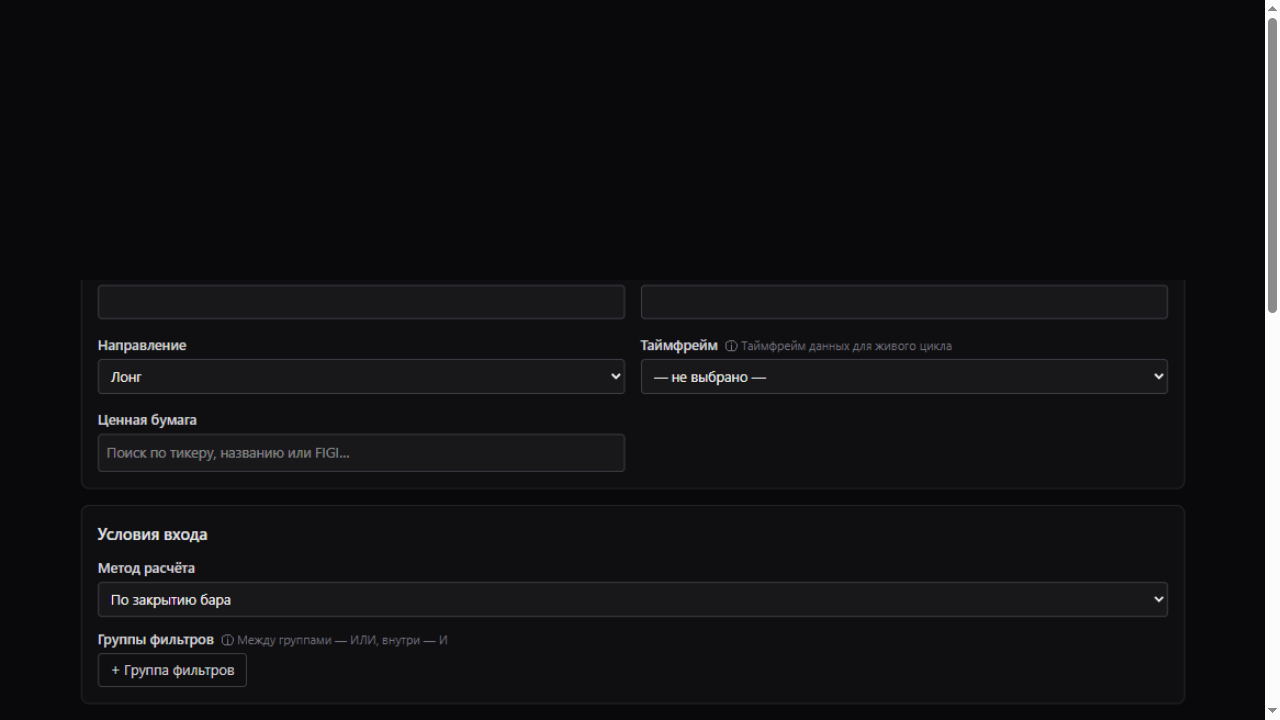
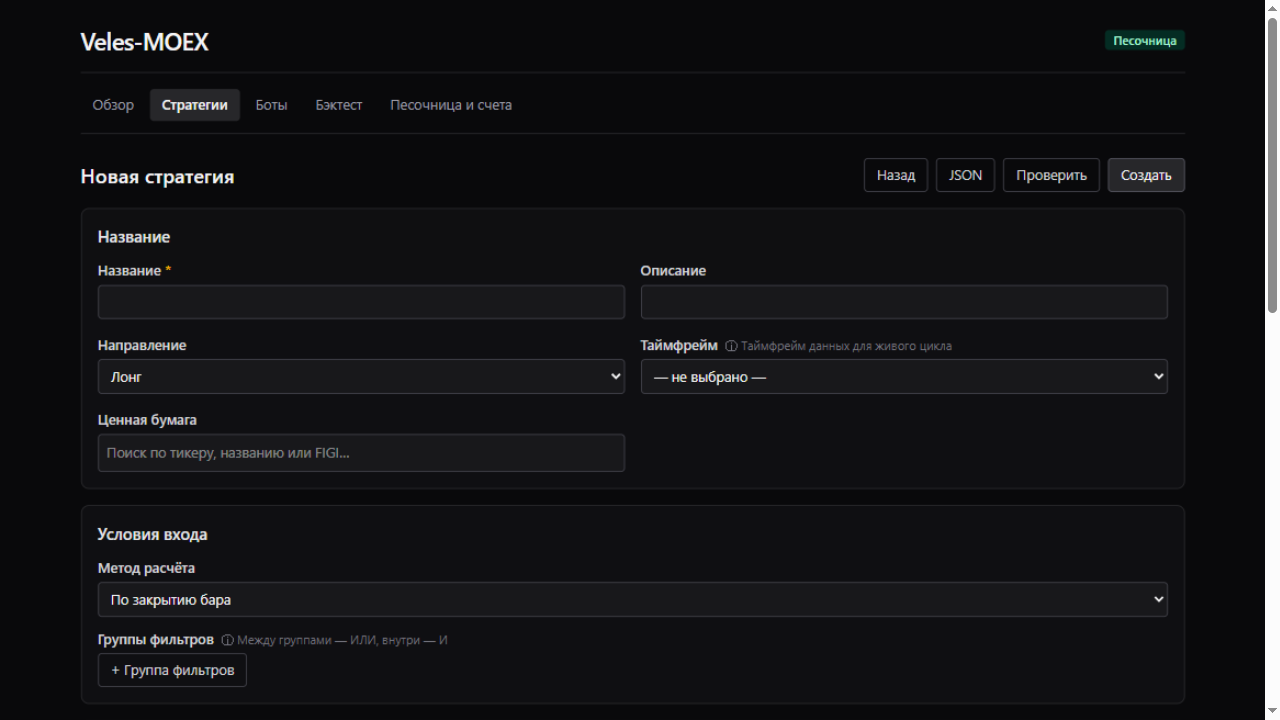
REPORT-MVP-8.2-REV1: раунд 2 (B1–B3, U13) — отчёт, скриншоты U13 и пересъёмка T3

diff --git a/.agent/REPORT-MVP-8.2-REV1.md b/.agent/REPORT-MVP-8.2-REV1.md
@@ -1,0 +1,119 @@
+# Veles-MOEX — Отчёт Кодера: MVP-8.2, Раунд 2 (REV1)
+
+## Резюме
+
+Задача: `.agent/TASK-MVP-8.2-TAILWIND4-A11Y.md`, раздел «Раунд 2» — контракт владельца **U13** («Период»: календарь по датам, пресеты по значку, без надписи «Быстрый выбор») плюс блокеры B1–B3 из `.agent/REVIEW-MVP-8.2.md` и обязательные правки отчёта.
+
+- Ветка реализации: `agent/review/mvp-8.2` (база раунда 1: `196a76c`; общая база — `master @ c87435a`)
+- HEAD: `f0f057b27b479d9e8bf0a2a297a1a207431f23de` (**запушена, в синхроне с origin** — проверено `git ls-remote origin agent/review/mvp-8.2`)
+- Коммиты раунда 2 (каждое изменение — отдельный коммит):
+  - `b55fa00` — **B1**: кликабельная область чекбокса ≥ 32 px (A4);
+  - `e9f5510` — **B2 + U13**: «Период» — календарь по полю, пресеты по значку, Esc/клавиатура;
+  - `f0f057b` — **B3**: цвет `::placeholder` и покрытие в `check:contrast`.
+
+## B1. Чекбокс — область ≥ 32 px (A4)
+
+**Было (по ревью B1):** `CheckboxInput` — `input` 16×16 без обёртки `label` (Chrome не применяет padding к нативному чекбоксу, computed `padding: 0`); два чекбокса `StrategyFormPage` — внутри `label` 1044×20, то есть 20 px по высоте.
+
+**Стало:**
+
+- `FormControls.tsx` — `CheckboxInput` обёрнут в `<label className="flex min-h-8 min-w-8 cursor-pointer items-center justify-center">`; сам чекбокс — `h-4 w-4 accent-zinc-400` (визуальный размер 16 px не менялся), программная подпись (`aria-label` из `Field`) и видимые тексты без изменений.
+- `StrategyFormPage.tsx` — `label` строки чекбокса сигнала: `flex cursor-pointer items-center gap-2 text-sm font-medium text-zinc-200` → `flex min-h-8 cursor-pointer items-center gap-2 text-sm font-medium text-zinc-200`.
+- Тест: `FormControls.test.tsx`, `«A4 (раунд 2 B1): чекбокс обёрнут в label — кликабельная область 32×32»` — проверяет наличие `label` с `min-h-8`/`min-w-8` вокруг чекбокса.
+
+**Живой замер (финальный бандл, `/strategies/new`, `getBoundingClientRect`):**
+
+| Чекбокс | Видимый input | Кликабельная область (label) |
+|---|---|---|
+| режим стратегии (2 шт.) | 16×16 px | 1044×**32** px |
+| «Экстренная остановка» | 16×16 px | 527×**32** px |
+
+Область нажатия — ≥ 32 px по высоте; визуальный размер самого чекбокса не менялся.
+
+## B2 + U13. «Период»: календарь по датам, пресеты по значку
+
+Ревью B2: Esc не закрывал календарь, открытый с клавиатуры (обработчик был только на текстовом поле и диалоге; кнопка «Открыть календарь» держала фокус). Замечание M1 — улучшение клавиатуры на самом поле.
+
+**Решение — контракт U13 (закрывает и B2, и M1).** `PeriodPicker.tsx` переработан:
+
+- **Поле** («Период», `readOnly`, `aria-label` «Период») — открывает календарь по клику, **Enter, Space и ArrowDown** (M1 закрыт: путь с клавиатуры начинается с самого поля).
+- **Значок** (кнопка, `aria-label="Быстрый выбор периода"`) — открывает только панель пресетов (Месяц / 3 месяца / 6 месяцев / Год / 3 года / Весь период; «Весь период» без данных — disabled, как раньше).
+- **Календарь** — только месяц/даты/время/подсказка; раздела «Быстрый выбор ▾» внутри календаря **больше нет** (надпись «Быстрый выбор» не встречается в DOM вообще).
+- **Один попап за раз**: закрытие по `mousedown`/`focusin` вне области (слушатели на `document` для `[open, presetsOpen]`).
+- **Esc** — на общем корневом элементе (`onRootKeyDown` + `onKeyDown` попапов): закрывает любой из попапов и **возвращает фокус** на элемент-открыватель (поле или значок). B2 закрыт: Esc работает независимо от того, чем открыт попап.
+- Навигация в пресетах: ArrowDown/ArrowUp переводит фокус между кнопками, Enter — выбор (кнопки), Tab — по умолчанию.
+
+**Тесты** (`PeriodPicker.test.tsx`, блок «U13 (раунд 2)», 8 новых сценариев): календарь без пресетов; пресеты без календаря; открыт только один попап; Esc из поля закрывает календарь и возвращает фокус; Esc из значка закрывает пресеты и возвращает фокус; текста «Быстрый выбор ▾» в документе нет; поле открывает календарь по Enter/Space/ArrowDown; ArrowDown/ArrowUp перемещают фокус по опциям пресетов.
+
+**Адаптация существующих тестов — только то, что потребовал U13 (что было → что стало):**
+
+- `BacktestPage.test.tsx`: 4× `getByLabelText("Открыть календарь")` → `getByLabelText("Период")` (календарь теперь открывается полем); 1× `getByText("Быстрый выбор ▾")` → `getByRole("button", { name: "Быстрый выбор периода" })`.
+- `PeriodPicker.test.tsx`: 3× `getByText("Быстрый выбор ▾")` → клик по значку (`aria-label`); тест «Весь период» — календарь переоткрывается кликом по полю перед проверкой подсказки; комментарий disabled-опции обновлён.
+- Проверки U11/U12 (пустой период, ISO-период, портфель данных) не ослаблены — см. `npm test`.
+
+**Живой прогон (финальный бандл, docker, `/backtest`):**
+
+| Действие | Результат |
+|---|---|
+| Enter на поле | календарь открылся (dialog = 1) |
+| Esc на поле | закрыт (0), фокус на поле («Период») |
+| ArrowDown на поле | календарь открылся (1) |
+| Esc на поле | закрыт, фокус на поле |
+| Клик по значку | панель пресетов (6 опций), календаря нет (dialog = 0), текста «Быстрый выбор ▾» нет |
+| Esc на значке | пресеты закрыты (0), фокус на значке |
+
+## B3. Placeholder ≥ 4.5:1
+
+Ревью B3: в Tailwind 4 `::placeholder` по умолчанию — `color-mix(in oklab, currentcolor 50%, transparent)` (было gray-400 в v3); поля даты/времени `PeriodPicker` давали **4.42:1 < 4.5**.
+
+**Исправление:** `frontend/src/index.css`, `@layer base`:
+
+```css
+::placeholder {
+  color: var(--color-text-muted); /* #a1a1aa */
+  opacity: 1;
+}
+```
+
+Итог: 6.91:1 на surface (`#18181b`), 7.76:1 на page (`#09090b`) — выше 4.5:1 для всех полей (включая дату/время `PeriodPicker`), вид близок к v3.
+
+**`check:contrast` расширен** (`frontend/scripts/check-contrast.mjs`): пары плейсхолдеров `«placeholder text-muted on bg-surface»` / `«placeholder text-muted on bg-page»` (источник — `index.css ::placeholder`). **25 пар текста/фона, 0 ниже 4.5:1** (было 24 — плейсхолдеры не проверялись).
+
+**Живой замер:** computed `::placeholder` у поля «например, 100000» = `rgb(161, 161, 170)` (`#a1a1aa`), цвет самого текста поля — zinc-100.
+
+## Правки отчёта раунда 1 (обязательные из ревью)
+
+1. **A4** — исправлено: чекбокс визуально 16×16 при кликабельной области **≥ 32 px** (`label`-обёртка; способ проверки — `getBoundingClientRect` + тест, см. B1).
+2. **A6** — «дефектов не найдено» убрано: найденный дефект B2 и его закрытие описаны выше.
+3. **T2** — добавлено изменение v4: `::placeholder` (color-mix 50 % currentcolor вместо gray-400) и его исправление в Части 2 (B3).
+4. **«Часть 1 визуально 1:1»** — уточнено. На «Обзоре» колонки таблицы сместились на 2–9 px. **Причина установлена и воспроизведена при одинаковых данных и прокрутке:** в Tailwind 4 preflight добавлен универсальный сброс `*, :after, :before, ::backdrop { margin: 0; padding: 0 }` (в v3 его не было), что убирает UA-дефолт Chrome `th, td { padding: 1px }`. Подтверждение по вычисленным стилям: ячейки таблицы — v3 `padding: 4px 1px`, v4 `4px 0px`; классы ячеек (`py-1`) и содержимое идентичны; также `border-color` ячеек стал `oklch(...)` вместо `rgb(229,231,235)` (тот же визуальный цвет zinc-200 — тот же сброс). Замер при пересъёмке: колонки `x=98/509/696/925/1063` (мастер) → `98/518/704/934/1068` (Часть 1). Это допустимое следствие preflight v4 (данные, классы и сетка не менялись; ломающего сдвига нет) — перечислено здесь как известное отличие.
+5. **`12-strategy-new-after1.png`** — переснят (и парный `02-strategy-new-before.png`) в **одинаковом состоянии**: страница сверху (`scrollY = 0`), форма пустая, инструменты загружены. Для честного сравнения заново сняты и `00-overview-before.png` / `10-overview-after1.png` (та же методика).
+6. **Скриншоты U13** — `27b-period-closed.png` (поле закрыто), `28-period-calendar.png` (календарь: открыт кликом по полю с клавиатуры-пути), `29-period-presets.png` (пресеты: открыты значком) — **в одинаковом состоянии данных** на `/backtest` (период не выбран, «нет данных о доступном диапазоне»).
+
+## Тесты и проверки
+
+| Проверка | Результат |
+|---|---|
+| `npm ci` | успешно |
+| `npm test` | **97 passed** (13 файлов) — 88 раунда 1 + **9 новых** (8 U13 в `PeriodPicker.test.tsx`, 1 B1 в `FormControls.test.tsx`); существующие тесты не ослаблены (адаптации — только по контракту U13, перечислены выше) |
+| `npm run build` | `tsc --noEmit` + `vite build` успешно; JS **294.67 kB / 88.81 gzip** (`index-Dniicsd2.js`), CSS **20.63 kB / 4.83 gzip** (`index-C469kFDv.css`) |
+| `npm audit` / `--omit=dev` | **0 / 0** |
+| `npm run check:contrast` | **25 пар, 0 ниже 4.5:1** (плейсхолдеры включены) |
+| axe-core 4.14.0, живой прогон (docker, финальный бандл, инъекция в браузер, стандартные правила) | `/` 0; `/strategies` 0; `/strategies/new` 0; `/backtest` 0; `/bots` 0; `/sandbox` 0 — **итого 0** |
+| Живые проверки | см. таблицы выше: B1 (замер области), B2/U13 (клавиатура/Esc/один попап), B3 (computed `::placeholder`) |
+| Backend | не менялся (diff — только `frontend/`); CI backend/pytest контрольно на `f0f057b` |
+
+## Ограничения
+
+1. **Сдвиг колонок «Обзора»** (−2…+9 px по границам) — следствие preflight v4 (см. выше); классы и данные не менялись, сетка не ломалась.
+2. **Hint-подсказки полей** («ⓘ …» в `title`) — вне контракта A2 (M3 ревью), без изменений.
+3. **`text-zinc-600` в disabled** — WCAG-освобождение неактивных элементов (M4), без изменений.
+4. **Рост бандла** — CSS +4.98 kB raw vs v3 (Tailwind 4 генерирует больше утилит), JS +1.88 kB raw (aria/`TextareaInput`/рефакторинг PeriodPicker). Для загрузки незначимо.
+5. **Визуальная разница Части 2** — только A1–A5 раунда 1 плюс B1/B3 раунда 2 (область чекбокса, цвет плейсхолдера). Поведение форм и данных не менялось.
+6. **Veles-семантика** (фильтры/сигналы, DCA/Grid, PositionManager, Decimal, UTC, T-Invest read-only) — не затронута; в diff только frontend и стили/разметка/ARIA/тесты/скрипт контраста.
+
+## Публикация
+
+- `git push origin agent/review/mvp-8.2` — успешно (`196a76c..f0f057b`); `git ls-remote origin agent/review/mvp-8.2` = `f0f057b27b479d9e8bf0a2a297a1a207431f23de` = локальный HEAD (в синхроне).
+- Отчёт и скриншоты — в `agent/control` (этот коммит).
+- PR: `agent/review/mvp-8.2` → `master` (обновлён push'ем).
